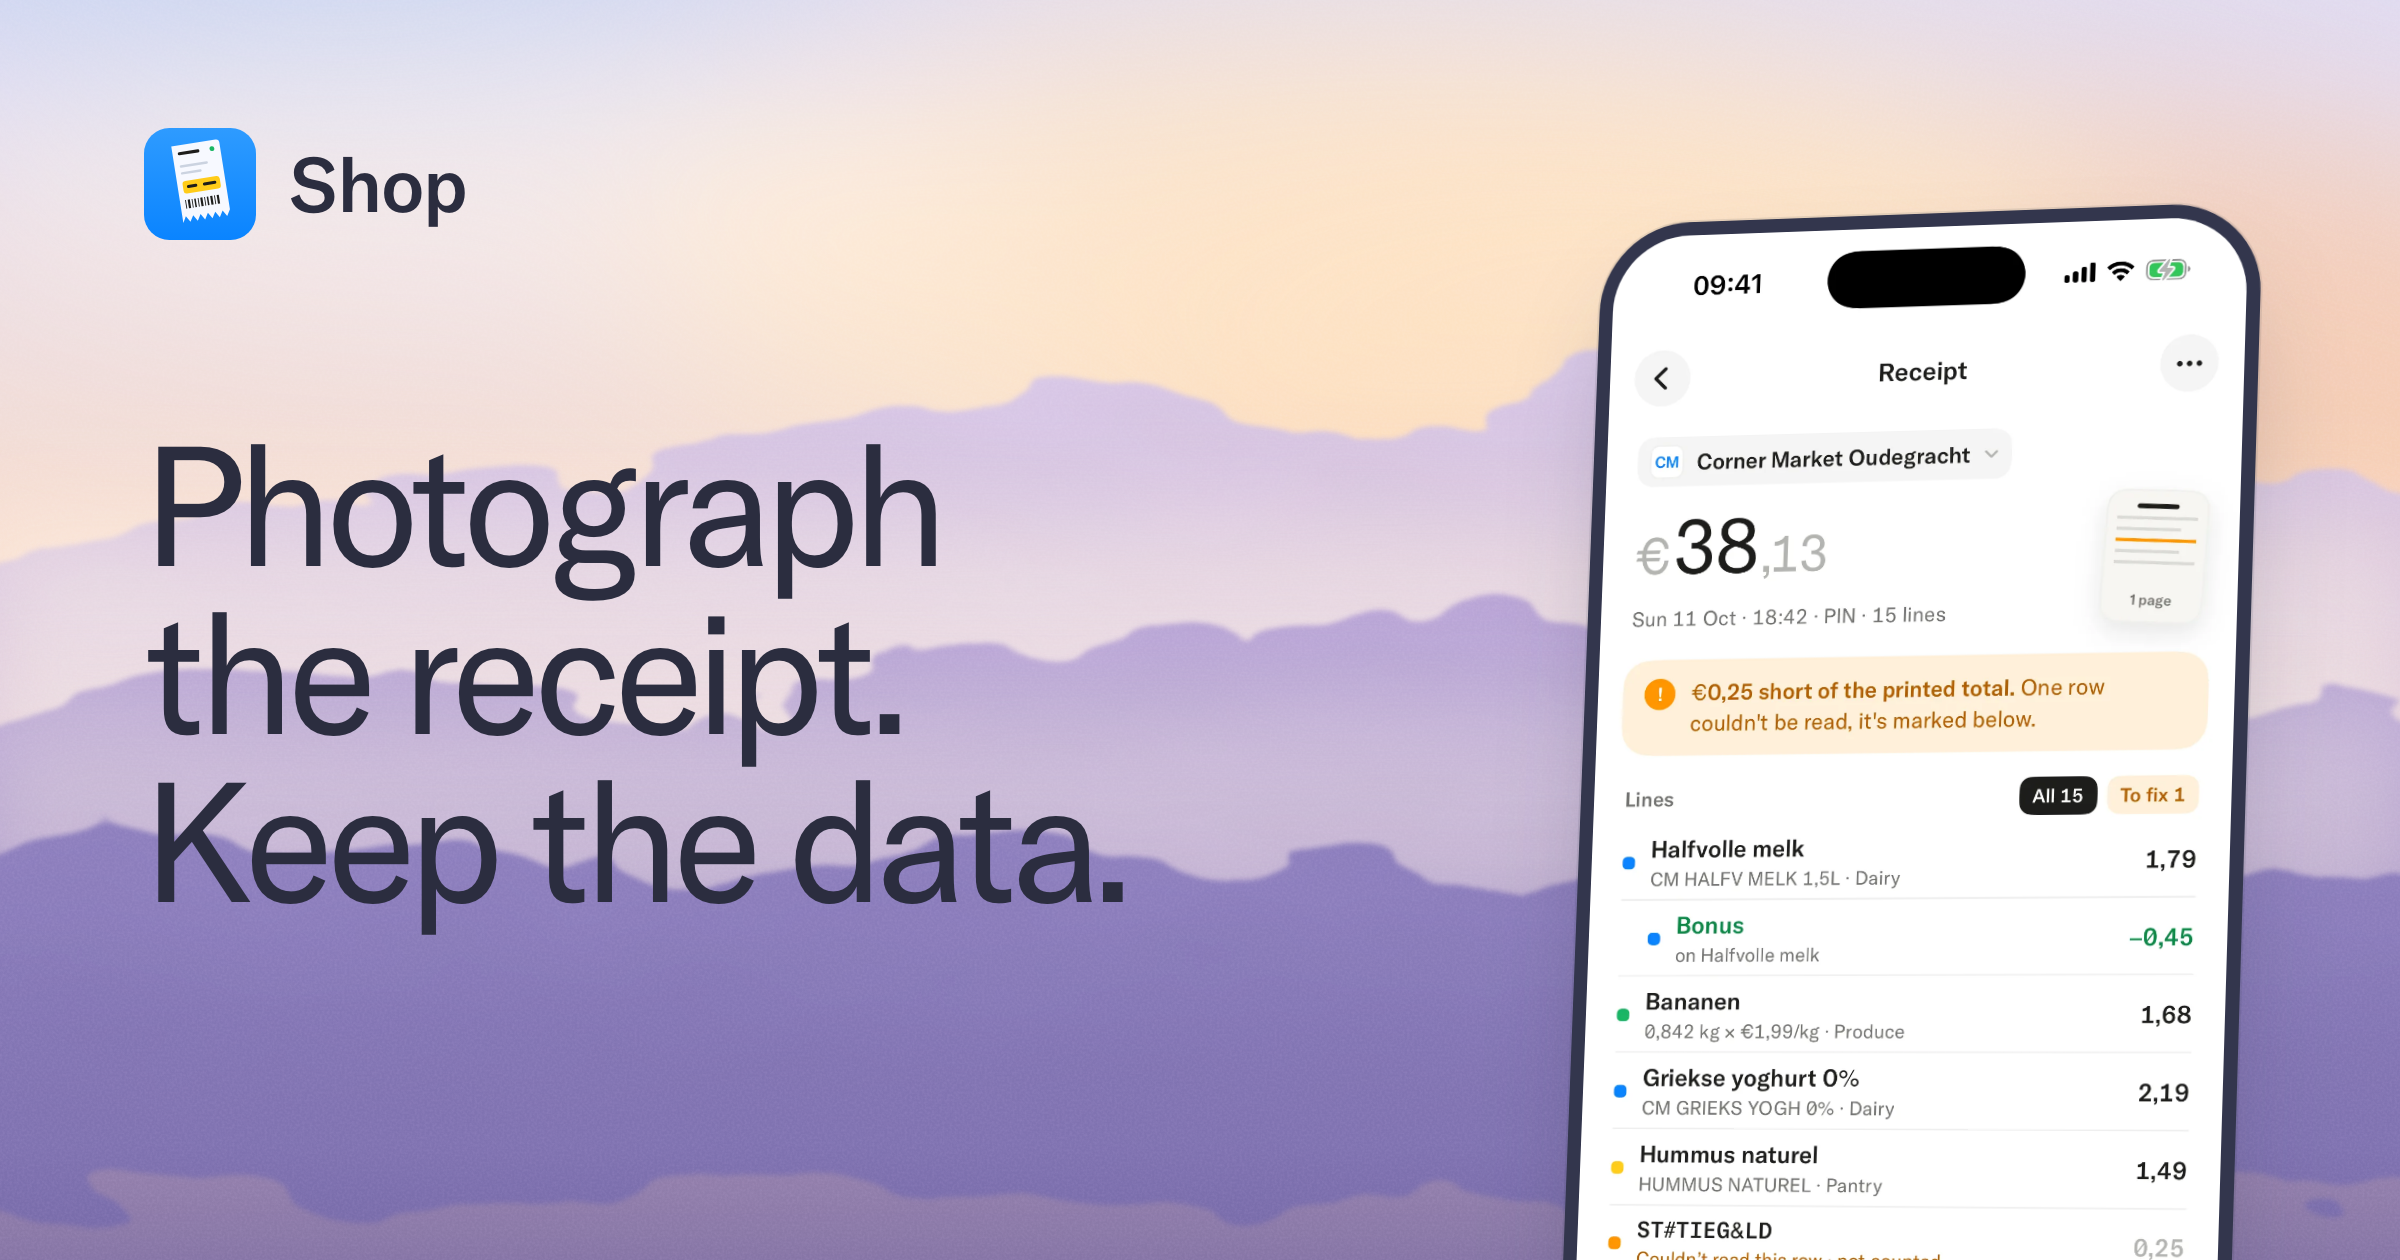
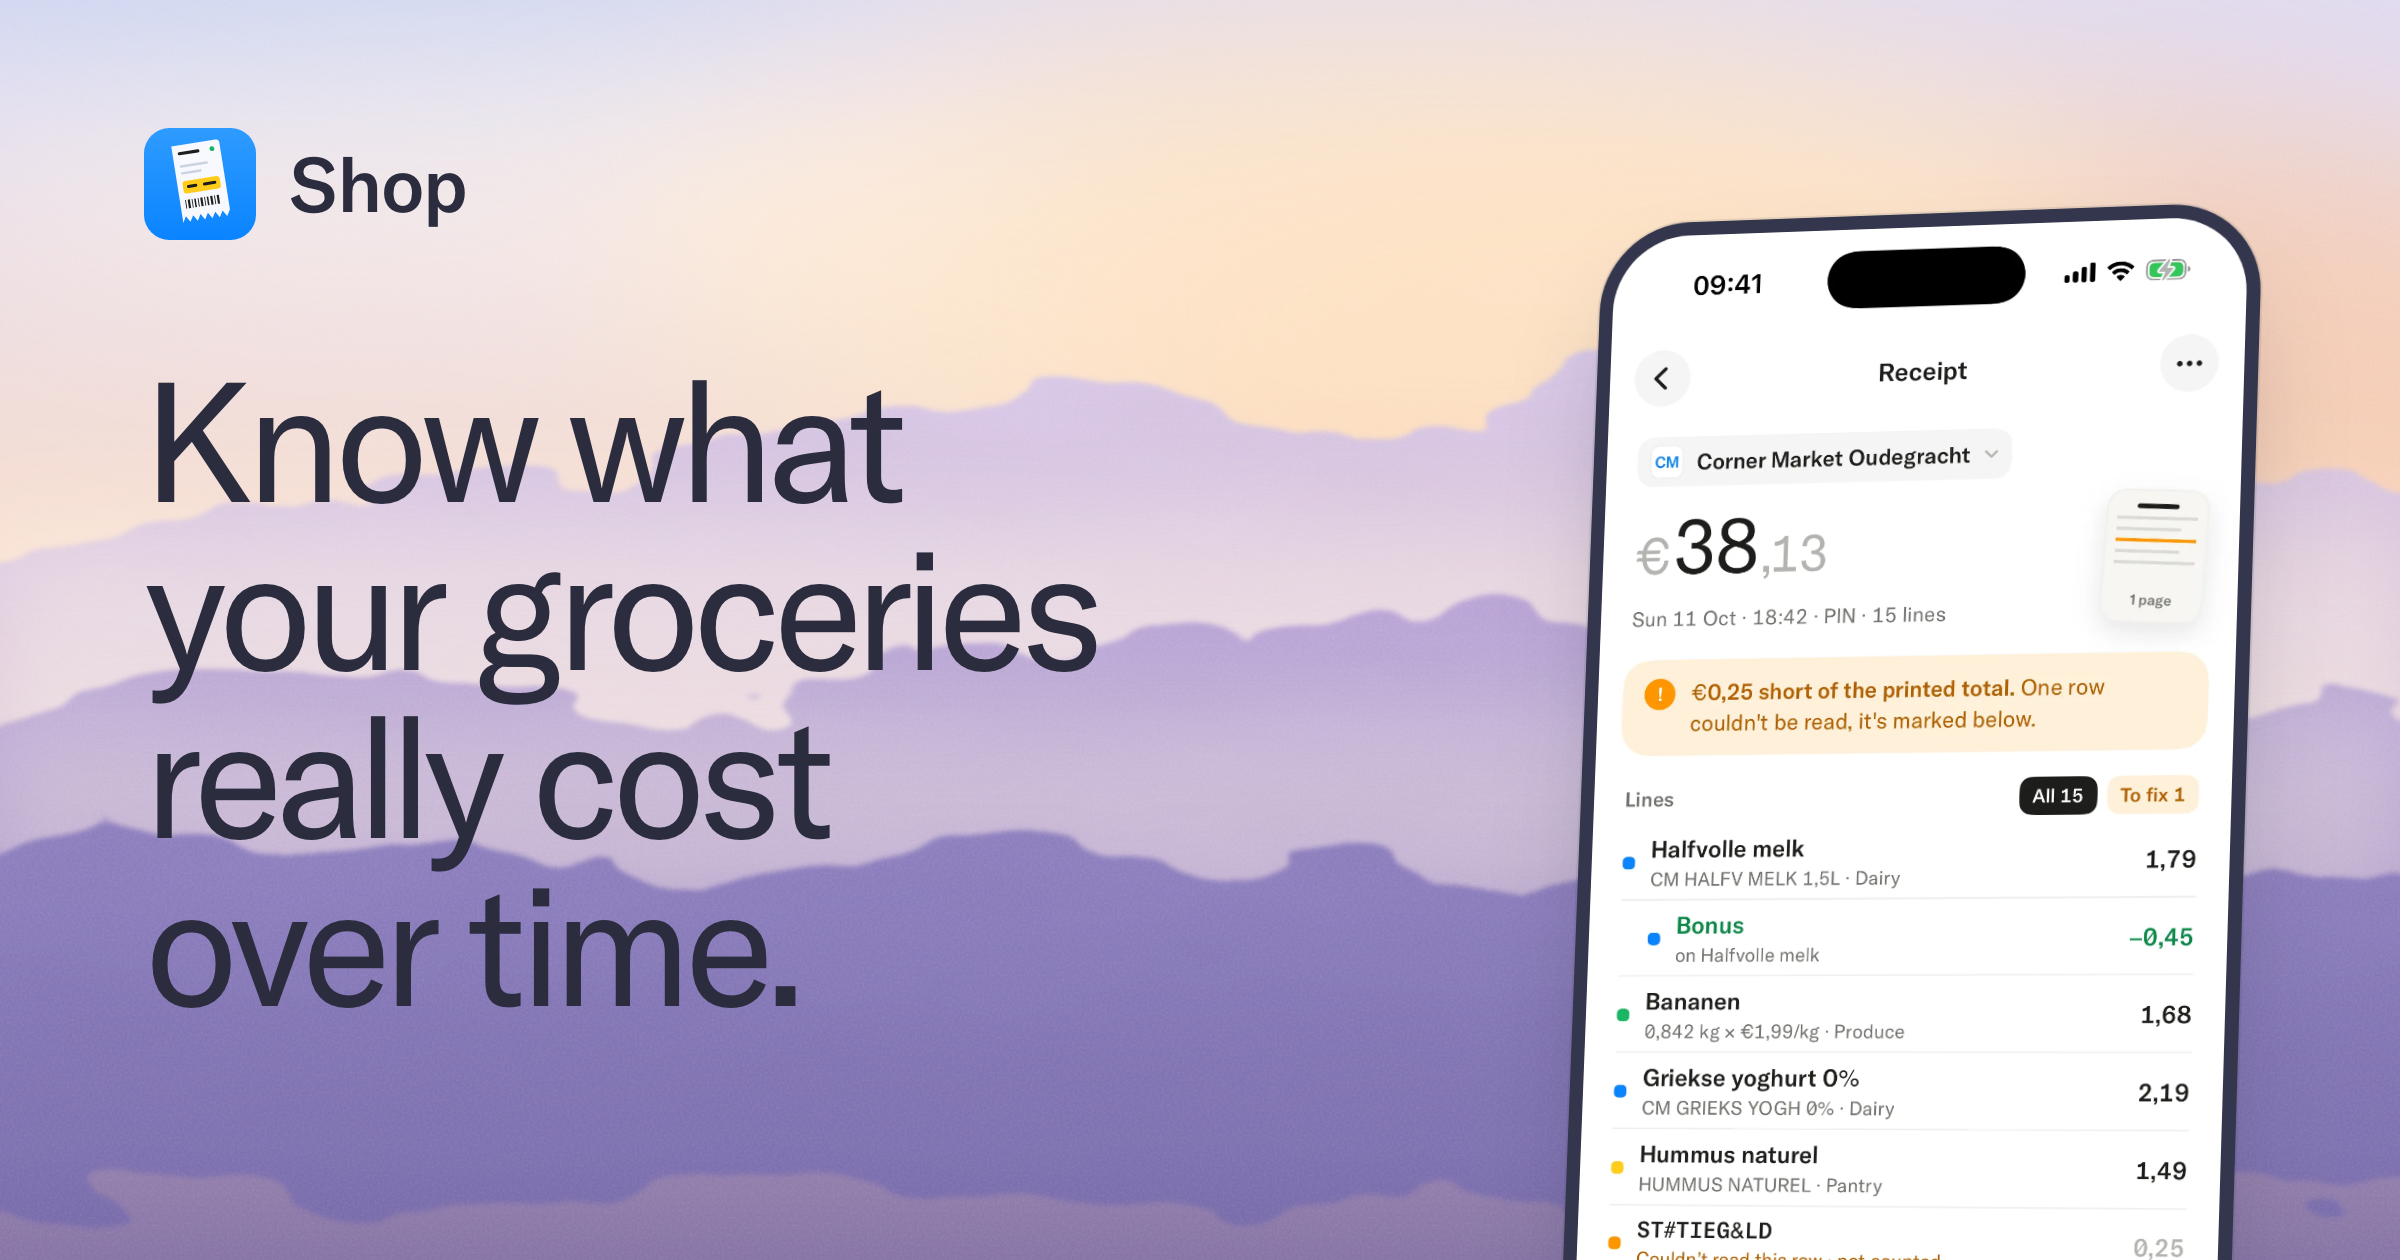
New tagline: Know what your groceries really cost over time (hero, title, share image)

Changed region(s): [[0.0625, 0.3095, 0.4688, 0.8048]]

diff --git a/site/index.html b/site/index.html
@@ -4,12 +4,12 @@
 <meta charset="utf-8">
 <meta name="viewport" content="width=device-width,initial-scale=1">
 <!-- PRODUCT NAME: title and description -->
-<title>Shop · Photograph the receipt. Keep the data.</title>
+<title>Shop · Know what your groceries really cost over time.</title>
 <meta name="description" content="Shop reads your supermarket receipts on your own server, checks every line adds up to the printed total, and shows what your groceries really cost.">
 <meta property="og:type" content="website">
 <!-- PRODUCT NAME: og:site_name -->
 <meta property="og:site_name" content="Shop">
-<meta property="og:title" content="Shop · Photograph the receipt. Keep the data.">
+<meta property="og:title" content="Shop · Know what your groceries really cost over time.">
 <meta property="og:description" content="Shop reads your supermarket receipts on your own server, checks every line adds up to the printed total, and shows what your groceries really cost.">
 <meta name="twitter:card" content="summary_large_image">
 <!-- SHARE IMAGE: add og:image and twitter:image with the absolute URL once the domain is known, see README -->
@@ -55,7 +55,7 @@
 <div class="hero-in">
 
 <div class="hero-text"><div class="top"><span class="badge a-rise">MIT licence · open source <svg width="14" height="14" viewBox="0 0 24 24" fill="none" stroke="currentColor" stroke-width="2.4" stroke-linecap="round" stroke-linejoin="round" aria-hidden="true"><path d="m9 6 6 6-6 6"/></svg></span></div>
-<h1 class="a-rise">Photograph the receipt.<br class="br-d"> Keep the data.</h1>
+<h1 class="a-rise">Know what your groceries<br class="br-d"> really cost over time.</h1>
 <p class="lead a-rise">Reads your supermarket receipts on your own server, checks every line adds up to the printed total, and shows what your groceries really cost.</p>
 <div class="hero-btns"><a class="btn" href="https://github.com/sunday-studio/shop">View on GitHub</a><a class="btn alt" href="guide/index.html">Read the guide</a></div></div>
 <div class="paper a-settle" style="animation-delay:.2s" aria-hidden="true"><div class="b" style="width:50%;background:var(--ink)"></div><div class="b"></div><div class="b" style="width:72%"></div><div class="b"></div><div class="tot"></div></div>

diff --git a/design/website/og-image.html b/design/website/og-image.html
@@ -6,7 +6,7 @@
 .og{position:relative;width:1200px;height:630px;overflow:hidden;font-family:'GT America',system-ui,sans-serif;color:var(--ink);-webkit-font-smoothing:antialiased}
 .brand{position:absolute;left:72px;top:64px;display:flex;align-items:center;gap:16px;font-size:38px;font-weight:500;letter-spacing:-.02em;z-index:2}
 .brand img{width:56px;height:56px;display:block}
-h1{position:absolute;left:72px;top:210px;margin:0;font-size:84px;line-height:1.0;font-weight:400;letter-spacing:-.05em;z-index:2;width:600px}
+h1{position:absolute;left:72px;top:178px;margin:0;font-size:84px;line-height:1.0;font-weight:400;letter-spacing:-.05em;z-index:2;width:600px}
 .phone{position:absolute;left:770px;top:92px;width:340px;z-index:2;transform:perspective(1800px) rotateY(-9deg) rotateX(3deg) rotate(1.5deg);transform-origin:50% 100%}
 .dev{border-radius:46px;background:#33364D;padding:7px;box-shadow:0 30px 60px -20px rgba(43,45,63,.35),0 0 0 1px rgba(43,45,63,.10)}
 .dev img{display:block;width:100%;height:auto;border-radius:39px}
@@ -32,7 +32,7 @@ h1{position:absolute;left:72px;top:210px;margin:0;font-size:84px;line-height:1.0
 <rect y="800" width="1232" height="320" fill="url(#fgo)"/>
 <rect width="1232" height="1120" filter="url(#gno)" opacity=".5" style="mix-blend-mode:soft-light"/></svg>
 <div class="brand"><img src="file:///Users/casprine/Desktop/vendor/sunday-studio/shop/site/img/logo-badge.svg" alt="">Shop</div>
-<h1>Photograph<br>the receipt.<br>Keep the data.</h1>
+<h1>Know what<br>your groceries<br>really cost<br>over time.</h1>
 
 <div class="phone"><div class="dev"><img src="file:///Users/casprine/Desktop/vendor/sunday-studio/shop/site/img/receipt-light-1206.webp" alt=""></div></div>
 </div>

diff --git a/design/website/canvas-src/web_b.py b/design/website/canvas-src/web_b.py
@@ -228,7 +228,7 @@ def build(g):
         chips = '' if m else f'<div class="fl a-rise" style="right:170px;top:760px;animation-delay:.3s"><i style="background:var(--green)">{ICONS["check"]}</i><div>Adds up<small>€38,13 matches the receipt</small></div></div><div class="fl a-rise" style="right:120px;top:900px;animation-delay:.4s"><i style="background:var(--blue)">{ICONS["tag"]}</i><div>Cheapest this month<small>Oat milk, Corner Market</small></div></div><div class="fl a-rise" style="left:130px;top:980px;animation-delay:.5s"><i style="background:var(--amber)">{ICONS["bars"]}</i><div>Groceries, October<small>€412 across 4 shops</small></div></div>'
         btns = f'<div style="display:flex;gap:12px;justify-content:center;margin-top:30px;flex-direction:{"column" if m else "row"};padding:{"0 20px" if m else "0"}"><a class="btn" href="https://github.com/sunday-studio/shop" style="{"width:100%" if m else "min-width:220px"}">View on GitHub</a><a class="btn alt" href="#" style="{"width:100%" if m else "min-width:220px"}">Read the guide</a></div>'
         badge = '<span class="badge a-rise">MIT licence · open source <svg width="14" height="14" viewBox="0 0 24 24" fill="none" stroke="currentColor" stroke-width="2.4" stroke-linecap="round" stroke-linejoin="round" aria-hidden="true"><path d="m9 6 6 6-6 6"/></svg></span>'
-        txt = f'<div class="hb" style="position:relative;z-index:2;padding:{"20px 0 0" if m else "40px 0 0"}"><div style="text-align:center">{badge}</div><h1 class="a-rise" style="margin-top:24px;{h1}">Photograph the receipt.{"" if m else "<br>"} Keep the data.</h1><p class="lead a-rise" style="{"font-size:17px;padding:0 20px" if m else ""}">Reads your supermarket receipts on your own server, checks every line adds up to the printed total, and shows what your groceries really cost.</p>{btns}</div>'
+        txt = f'<div class="hb" style="position:relative;z-index:2;padding:{"20px 0 0" if m else "40px 0 0"}"><div style="text-align:center">{badge}</div><h1 class="a-rise" style="margin-top:24px;{h1}">Know what your groceries{"" if m else "<br>"} really cost over time.</h1><p class="lead a-rise" style="{"font-size:17px;padding:0 20px" if m else ""}">Reads your supermarket receipts on your own server, checks every line adds up to the printed total, and shows what your groceries really cost.</p>{btns}</div>'
         phone = f'<div class="tilt" style="position:absolute;left:50%;margin-left:-{ph//2}px;top:{640 if m else 690}px;z-index:2">{dev("receipt",ph)}</div>'
         return f'<section><div class="heroP" style="height:{h}px">{art("h") if kind == "dusk" else VARIANTS[kind]("h")}{header(m)}{txt}{paper}{phone}<div class="fade" style="height:{220 if m else 300}px"></div>{chips}</div></section>'
 
